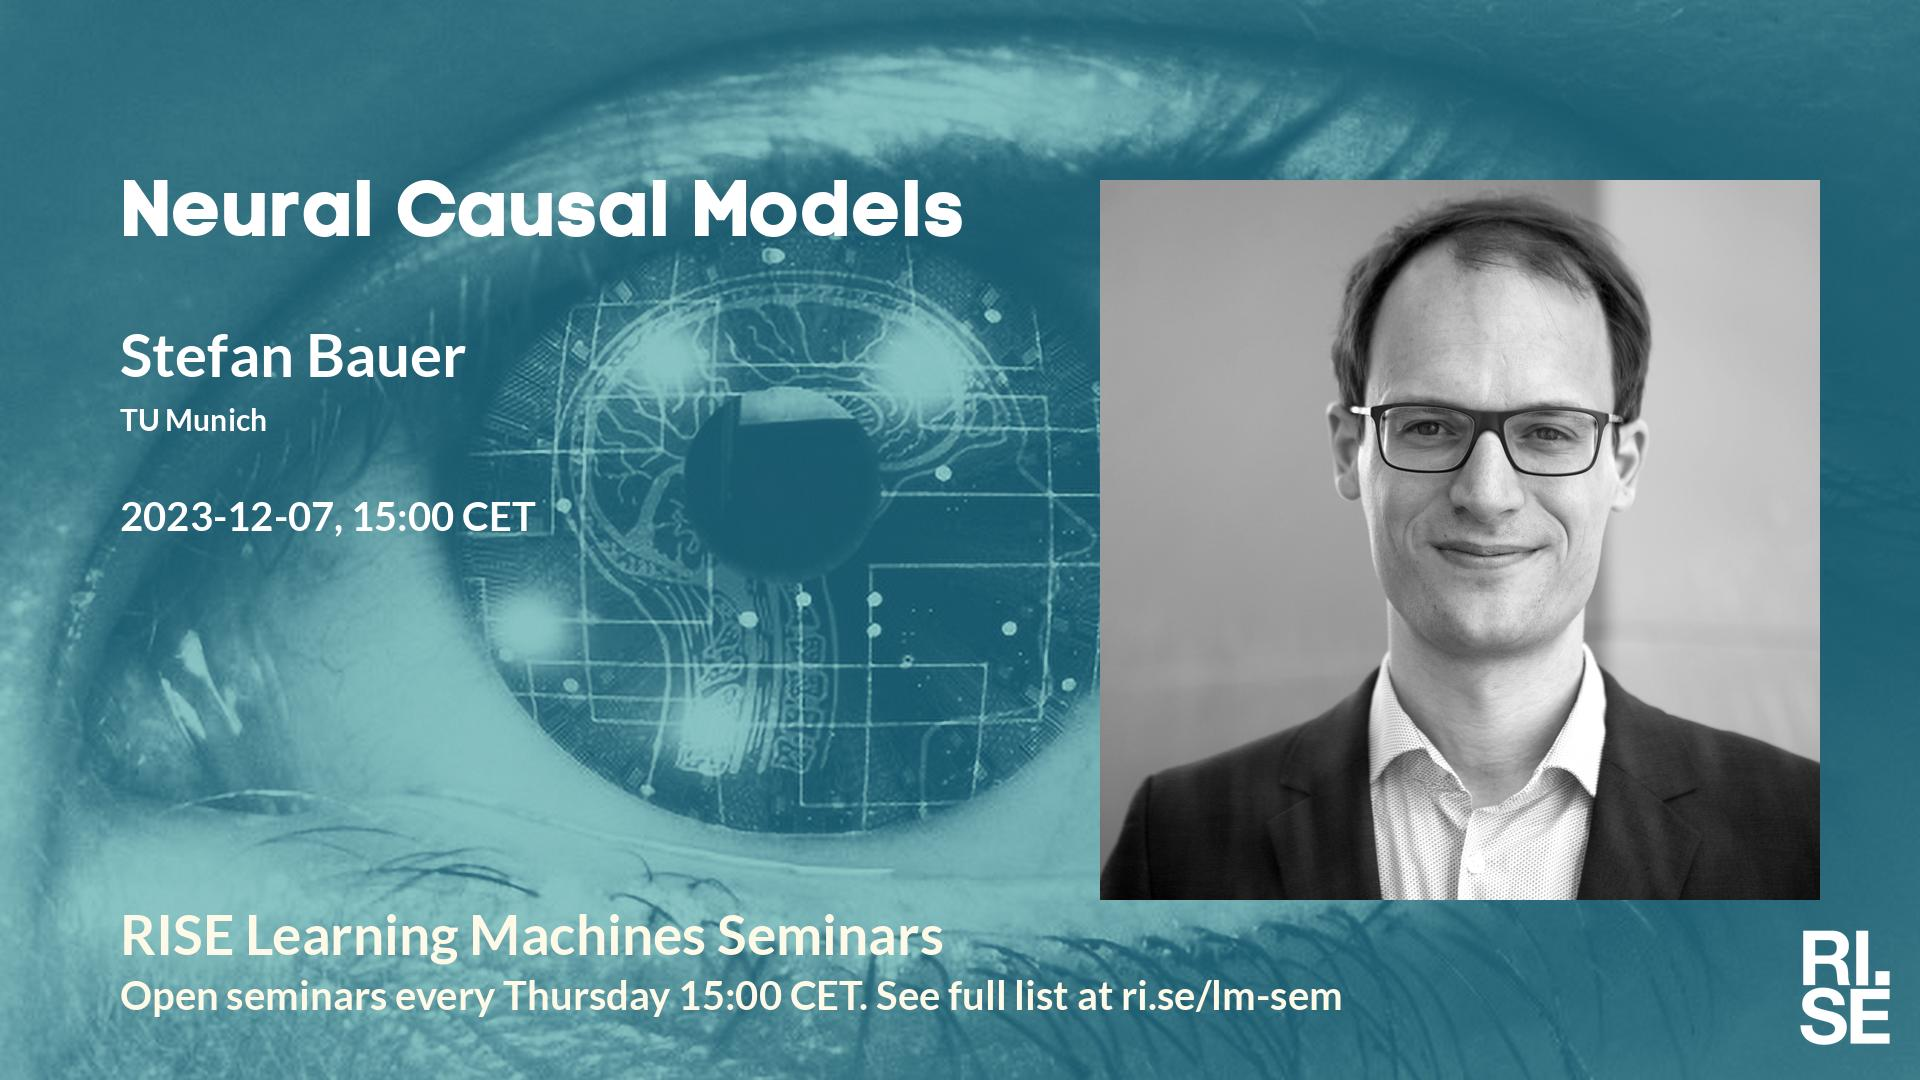
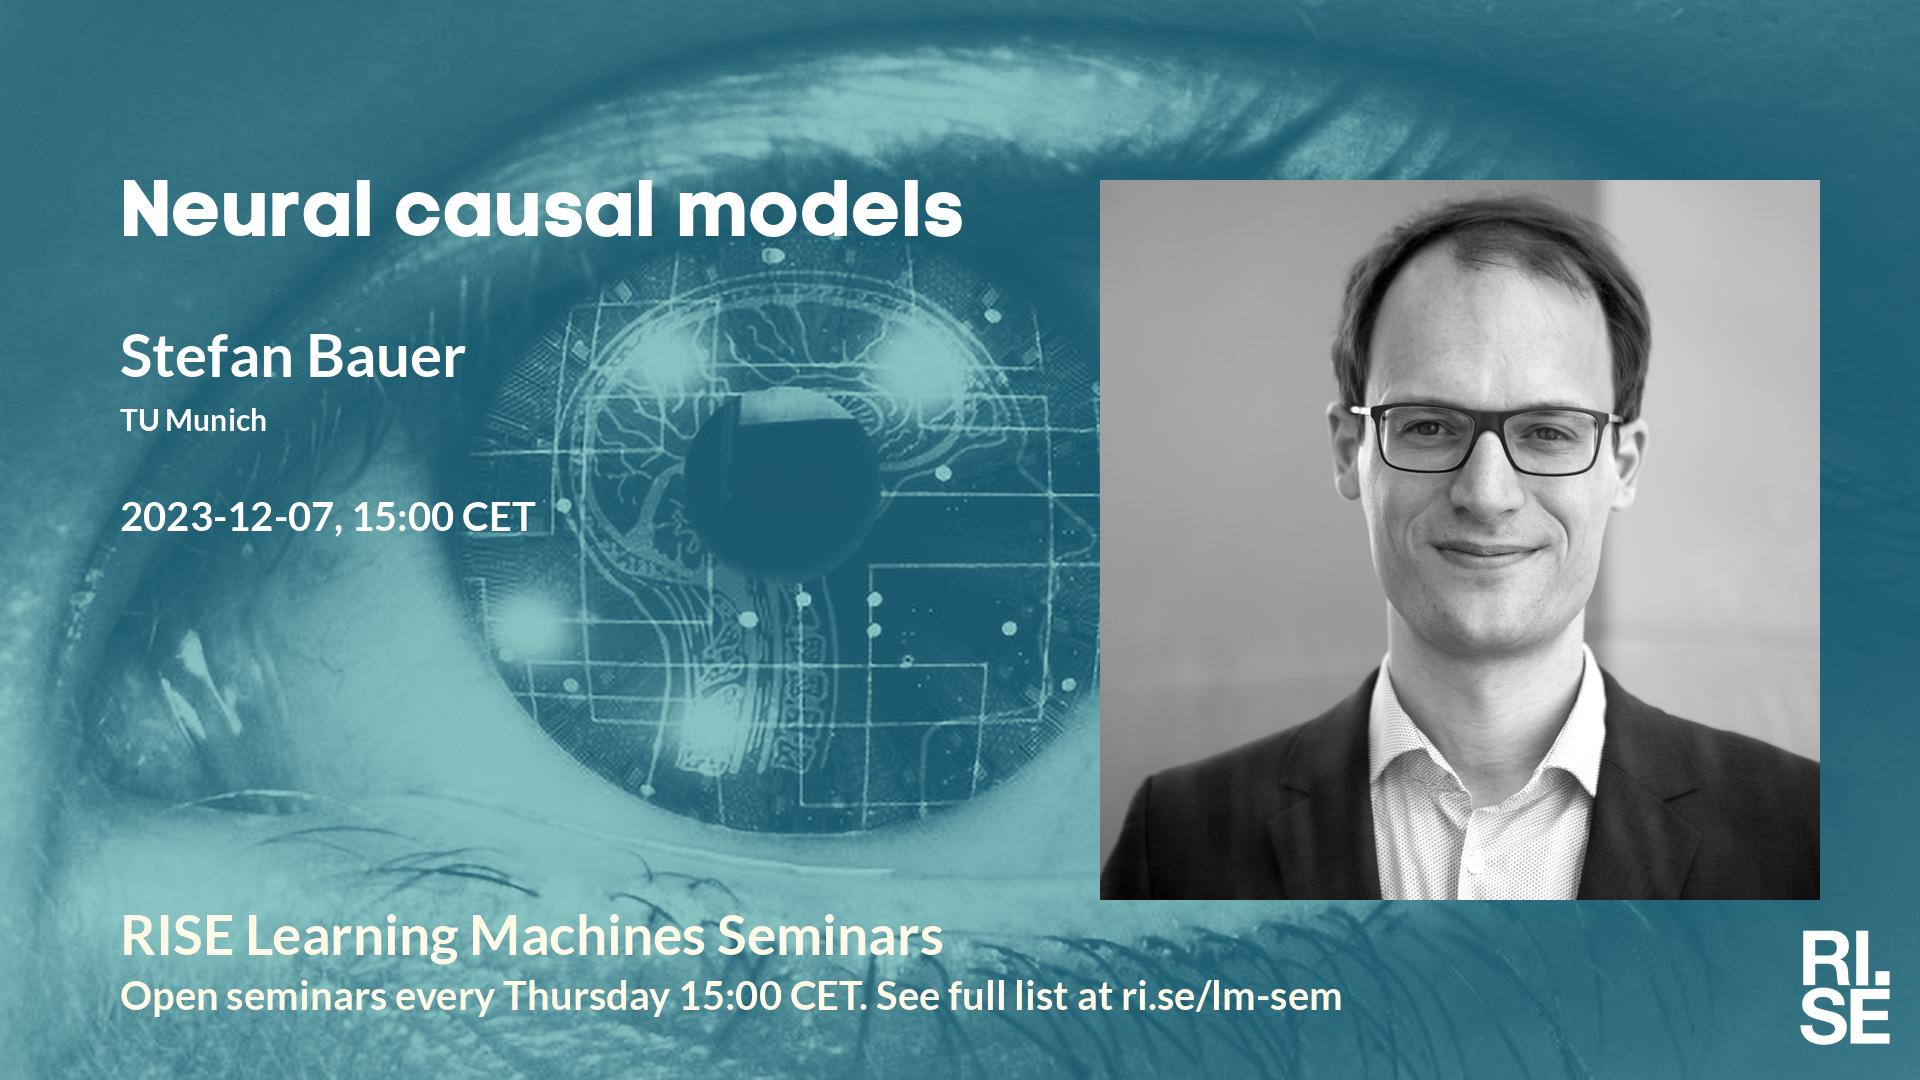
Updated plan on web site.

Changed region(s): [[0.1875, 0.1528, 0.4062, 0.2444]]

diff --git a/lm/2023-12-07.md b/lm/2023-12-07.md
@@ -4,7 +4,7 @@ metatags: "<meta name=\"robots\" content=\"noindex,nofollow\" />"
 ---
 Welcome to this week's Learning Machines seminar.
 
-**Title:** Neural Causal Models
+**Title:** Neural causal models
 
 **Speaker:** Stefan Bauer, TU Munich
 
